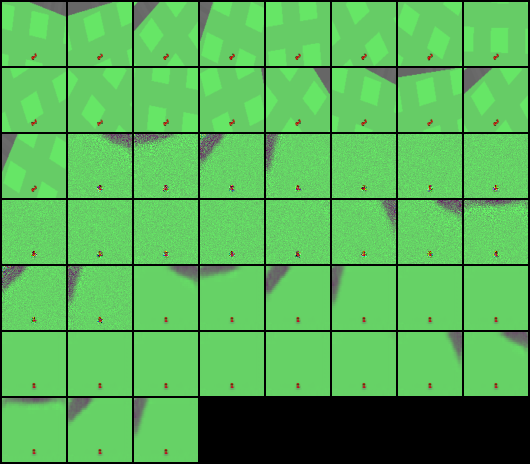
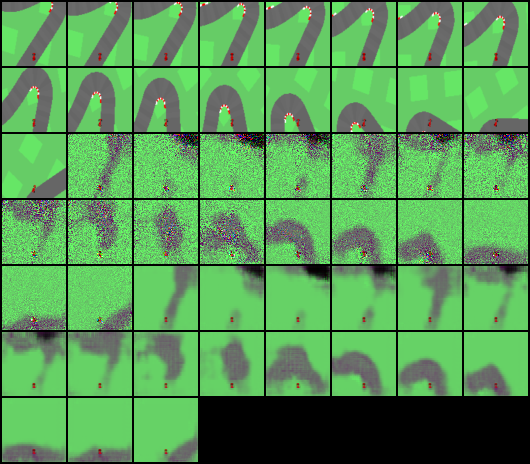
saving results but planner doesnt seem to be working

diff --git a/controller_model.py b/controller_model.py
@@ -282,9 +282,9 @@ class Models:
         self.cem_mus = smoothing*new_mu + (1-smoothing)*(self.cem_mus) 
         self.cem_sigmas = smoothing*new_sigma+(1-smoothing)*(self.cem_sigmas )
         
-        self.cem_sigmas[:,0] = torch.clamp(self.cem_sigmas[:,0], min=0.3)
-        self.cem_sigmas[:,1] = torch.clamp(self.cem_sigmas[:,1], min=0.2)
-        self.cem_sigmas[:,2] = torch.clamp(self.cem_sigmas[:,2], min=0.1)
+        self.cem_sigmas[0] = torch.clamp(self.cem_sigmas[0], min=0.3)
+        self.cem_sigmas[1] = torch.clamp(self.cem_sigmas[1], min=0.2)
+        self.cem_sigmas[2] = torch.clamp(self.cem_sigmas[2], min=0.1)
         #print('updated cems',self.cem_mus, self.cem_sigmas )
 
     def constrain_actions(self, out):
